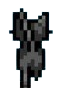
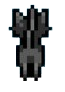
animação

Changed region(s): [[0.1231, 0.0435, 0.8308, 0.913], [0.4, 0.6087, 0.4923, 0.6522]]

diff --git a/index.js b/index.js
@@ -1,7 +1,5 @@
 let des = document.getElementById('des').getContext('2d')
 
-let rat = new Rat(1300, 325, 90, 50, './img/rato1.0.png')
-let rat2 = new Rat(1300, 325, 90, 50, './img/rato2.0.png')
 let cat = new Cat(10, 325, 85, 99, '../img/andar0.png')
 
 let t1 = new Text()
@@ -17,6 +15,27 @@ batida.volume = 0.5
 let jogar = true
 let fase = 1
 
+function criarRatos() {
+    let lista = []
+    
+    for (let i = 0; i < 10; i++) {
+        let x = Math.floor(Math.random() * (1800 - 1000) + 1000)
+        let y = Math.floor(Math.random() * (600 - 180) + 180)
+
+        let tipo = i % 2 === 0 ? 'rato1.' : 'rato2.'
+        let img = './img/' + tipo + '0.png'
+        
+        let r = new Rat(x, y, 90, 50, img)
+        r.tipo = tipo 
+
+        lista.push(r)
+    }
+    
+    return lista
+}
+let rat = criarRatos()
+
+
 document.addEventListener('keydown', (e) => {
     // motor.play()
     if (e.key === 'w' || e.key === 'ArrowUp') {
@@ -29,8 +48,16 @@ document.addEventListener('keydown', (e) => {
 document.addEventListener('keyup', (e) => {
     if (e.key === 'w' || e.key === 'ArrowUp') {
         cat.dir = 0
-    } else if (e.key === 's' || e.key === 'ArrowDown') {
+        } else if (e.key === 's' || e.key === 'ArrowDown') {
         cat.dir = 0
+    }
+})
+
+document.addEventListener('keydown', (e)=>{
+    if (e.key === 'w' || e.key === 'ArrowUp') {
+        cat.anim('cima_andar')
+    } else if (e.key === 's' || e.key === 'ArrowDown') {
+        cat.anim('baixo_andar')
     }
 })
 
@@ -54,18 +81,18 @@ function ver_fase() {
 }
 
 function colisao() {
-    if (cat.colid(rat)) {
-        batida.play()
-        rat.recomeca()
-        cat.vida -= 1
-
+    for (let r of rat) {
+        if (cat.colid(r)) {
+            r.recomeca()
+            batida.play()
+            cat.pontos += 5 
+        }
     }
-    console.log('colidiu')
 }
 
 function pontuacao() {
     if (cat.point(rat)) {
-        cat.pontos += 5
+        cat.vida -= 1
         rat.recomeca()
     }
 //     if (cat.point(rat2)) {
@@ -81,9 +108,10 @@ function pontuacao() {
 function desenha() {
 
     if (jogar) {
-        rat.des_cat()
         cat.des_cat()
-        rat2.des_cat()
+        for (let r of rat) {
+            r.des_cat()
+        }
         t1.des_text('Pontos: ' + cat.pontos, 1000, 40, 'yellow', '26px Arial')
         t2.des_text('Vidas: ' + cat.vida, 40, 40, 'red', '26px Arial')
         fase_txt.des_text('Fase: ' + fase, 550, 40, 'white', '26px Arial')
@@ -98,10 +126,10 @@ function atualiza() {
     if (jogar) {
         cat.mov_cat()
         cat.anim('andar')
-        rat.mov_rat()
-        rat.anim('rato1.')
-        rat2.mov_rat()
-        rat2.anim('rato2.')
+       for(r  of rat){
+        r.mov_rat()
+        r.anim(r.tipo)
+       }
         colisao()
         pontuacao()
         ver_fase()

diff --git a/models/Cat.js b/models/Cat.js
@@ -24,10 +24,10 @@ class Cat extends Obj{
 
     mov_cat(){
         this.y += this.dir
-        if(this.y < 62){
-            this.y = 62
-        }else if(this.y > 692){
-            this.y = 692
+        if(this.y < 150){
+            this.y = 150
+        }else if(this.y > 500){
+            this.y = 500
         }
     }
 
@@ -69,11 +69,11 @@ class Cat extends Obj{
 
 class Rat extends Obj{
 
-    vel = 2
+    vel = 3
 
     recomeca(){
-        this.x = 1300
-        this.y =  Math.floor(Math.random() * (638 - 62) + 62)
+        this.x = Math.floor(Math.random() * (1800 - 1000) + 1000)
+        this.y =  Math.floor(Math.random() * (600 - 180) + 180)
     }
 
     mov_rat(){
